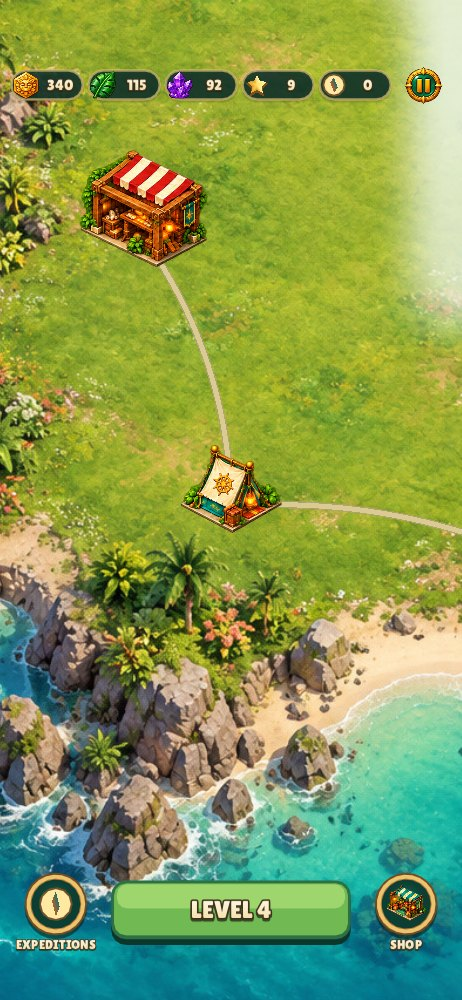
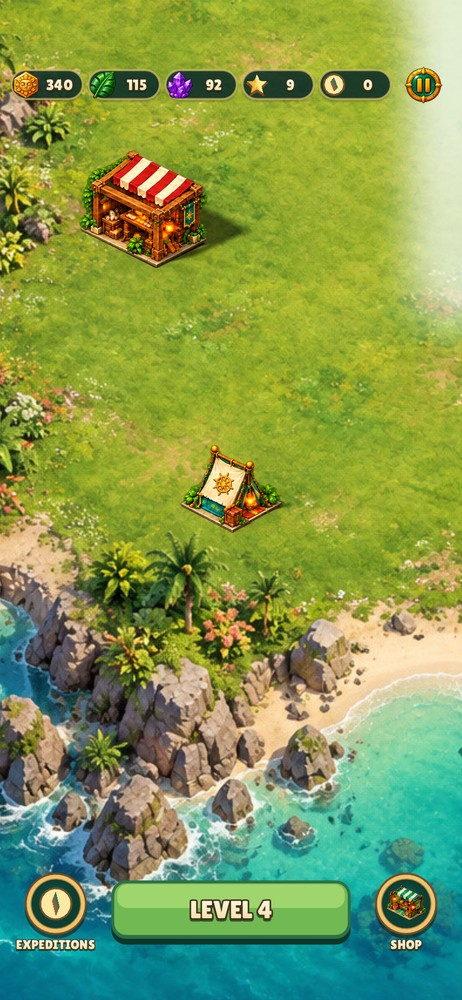
Disable automatic roads on the Nile and Relic Rush islands

diff --git a/games/relic-rush/README.md b/games/relic-rush/README.md
@@ -170,7 +170,7 @@ The 1920 × 2880 world scrolls beyond the phone screen. Hidden six-neighbor land
 | Ancient heights | 21 | 5 |
 | Temple ridge | 27 | 6 |
 
-A region must touch opened land, meet its Star requirement and have its Compass cost available. Select the clouded region and confirm expansion; only Compasses are deducted. This follows the June's Journey expansion principle. Regions do not open on a timer, and players do not need to build roads. Decorative paths adapt to the selected building positions.
+A region must touch opened land, meet its Star requirement and have its Compass cost available. Select the clouded region and confirm expansion; only Compasses are deducted. This follows the June's Journey expansion principle. Regions do not open on a timer, and players do not need to build roads. Buildings do not generate connecting roads.
 
 ## Play
 
@@ -186,7 +186,7 @@ A region must touch opened land, meet its Star requirement and have its Compass 
 - June's Journey-style expansion: adjacent clouded regions require cumulative Stars and spendable Compasses. First clears award 3 Stars and a scheduled Compass grant; replays award neither. Confirming a region consumes only Compasses; Stars remain. Region requirements and fog are separate from building placement.
 - The island's HUD follows the home screens of Royal Match, Homescapes and June's Journey, leaving the map uncovered. One row of slim pills shows Gold, Wood, Stone, Stars and Compasses beside the pause medallion; tap a pill to learn what it is for. At the bottom one big button plays the next level (or builds the restored wonder, named above it), flanked by round **Expeditions** and **Shop** buttons. Regions open from their markers in the fog; a marker that can open now shows "+" and glows. During expeditions the HUD is the slim Moves/Goals band and the tool tray. Island access returns after win/loss. See the [island HUD review](docs/review/island-hud/README.md).
 - Choose any valid grassy position within opened land. Hold a placed building still for half a second to pick it up, then drag and confirm or cancel. The building shows no label; it turns semitransparent red where it can't go. Completed buildings can be moved without spending resources. Preview and cancellation never change the saved layout.
-- Footprint collision and shoreline checks prevent overlap and water placement. Decorative paths are generated from the chosen positions; no road management is required.
+- Footprint collision and shoreline checks prevent overlap and water placement. Automatic connector roads are disabled.
 - Progress saves after rewards, construction and region unlocks (a `key=value` file in the per-game preferences folder, or `localStorage["relic-rush/progress"]` in the browser). An unfinished board restarts if the application is closed.
 
 ## Selected tile art

diff --git a/games/relic-rush/docs/references.md b/games/relic-rush/docs/references.md
@@ -4,7 +4,7 @@ Research date: 29 October 2026. Original sprites and environment paintings were 
 
 ## Island and building art direction
 
-Pearl's Peril and June's Journey are the primary references for the island and buildings, as requested. Favor a landscaped island with organic shoreline, gardens, trees, scenic paths and coherent building scale. Let individual buildings sit in their own surroundings with breathing room. Keep a calm, detailed painted environment; retain archaeological expedition architecture for our original setting. Candy Crush informs the puzzle board and feedback, not the island composition. Roads remain decorative, without connectivity requirements. The prototype now uses a large scrolling world, explicit neighboring-region unlocks, and freely placed movable buildings with green/red footprint validation.
+Pearl's Peril and June's Journey are the primary references for the island and buildings, as requested. Favor a landscaped island with organic shoreline, gardens, trees, scenic paths and coherent building scale. Let individual buildings sit in their own surroundings with breathing room. Keep a calm, detailed painted environment; retain archaeological expedition architecture for our original setting. Candy Crush informs the puzzle board and feedback, not the island composition. Automatic roads between buildings are disabled; landscape detail comes from the painted terrain. The prototype now uses a large scrolling world, explicit neighboring-region unlocks, and freely placed movable buildings with green/red footprint validation.
 
 ## Core loop
 - Wooga: June's Journey, Orchid Island construction, decoration, landmarks and scene progression: https://wooga.theymes.com/hc/en/junes-journey/articles/how-do-i-play-junes-journey-394

diff --git a/games/nile-archive/README.md b/games/nile-archive/README.md
@@ -10,6 +10,7 @@
 
 Интерфейс сделан по образцу iPad-версии June’s Journey, в цветах архива:
 
+- **Без автоматических дорог.** Постройки не соединяются процедурными линиями; дорожки на фоновой иллюстрации остаются частью пейзажа.
 - **Остров во весь экран.** Сверху слева — табличка Нефры: портрет в золотой рамке, звезда уровня и полоска влияния до следующего уровня. Сверху справа — капсулы монет и влияния с зелёным «+». Слева — круглые кнопки «Герои» и «Берег» с ценой.
 - **Снизу.** Кнопка «Строить» открывает лоток построек, табличка посередине показывает следующую цель, большая зелёная кнопка «Главы» открывает выбор глав. Красная точка на ней значит, что глава готова к поиску.
 - **Окна.** Тёмно-бирюзовые панели в золотой рамке с заклёпками, красная лента с заголовком, пергаментные карточки, глянцевые кнопки: зелёная — играть, синяя — играть снова, серая — недоступно.

diff --git a/games/nile-archive/docs/review/no-auto-roads/README.md b/games/nile-archive/docs/review/no-auto-roads/README.md
@@ -1,0 +1,19 @@
+# Automatic roads disabled
+
+Nile Archive explicitly disables generated building connectors, matching its previous default. Painted terrain paths remain part of the background.
+
+Before: main `3628324`. After: this branch. All captures use the native game renderer.
+
+| Logical size | Before | After |
+| --- | --- | --- |
+| 1200x900 | ![Before](before-1200x900.jpg) | ![After](after-1200x900.jpg) |
+| 1368x1026 | ![Before](before-1368x1026.jpg) | ![After](after-1368x1026.jpg) |
+| 1600x900 | ![Before](before-1600x900.jpg) | ![After](after-1600x900.jpg) |
+
+Reproduce each logical size with:
+
+```sh
+./build/nile-archive --headless --mute --fresh --size 1200x900 --screen island --shot /tmp/island.png
+```
+
+For the 390×844 Relic Rush capture, add `--safe-area 0,47,0,34`. Nile also covers 1368×1026 and 1600×900. PNG captures are converted to RGB JPEG at quality 90, fitted within 600×1100 (phone) or 1200×1000 (iPad).

diff --git a/games/relic-rush/docs/review/no-auto-roads/README.md b/games/relic-rush/docs/review/no-auto-roads/README.md
@@ -1,0 +1,18 @@
+# Automatic roads disabled
+
+Relic Rush no longer draws the engine’s generated building connectors.
+
+Before: main `3628324`. After: this branch. All captures use the native game renderer.
+
+| Logical size | Before | After |
+| --- | --- | --- |
+| 480x900 | ![Before](before-480x900.jpg) | ![After](after-480x900.jpg) |
+| 390x844 | ![Before](before-390x844.jpg) | ![After](after-390x844.jpg) |
+
+Reproduce each logical size with:
+
+```sh
+./build/relic-rush --headless --mute --fresh --size 480x900 --showcase --shot /tmp/island.png
+```
+
+For the 390×844 Relic Rush capture, add `--safe-area 0,47,0,34`. Nile also covers 1368×1026 and 1600×900. PNG captures are converted to RGB JPEG at quality 90, fitted within 600×1100 (phone) or 1200×1000 (iPad).

diff --git a/games/relic-rush/docs/asset-catalogue.md b/games/relic-rush/docs/asset-catalogue.md
@@ -360,3 +360,10 @@ inventory entry, an absent authored state, or a stale atlas crop fails CI. When
 changing existing definitions, audit their actual rule meaning as well as names.
 If any visual gap remains, open/link a GitHub issue here before handoff. No known
 placeholder board/control states remain from issue #11.
+
+## Island connector removal
+
+`lua/island.lua` disables the engine's procedural roads between buildings
+with a transparent `city.path`. Building sprites, shadows and terrain assets
+keep their existing registrations. Reviewed 480×900 and 390×844 captures are
+in [the road removal comparison](review/no-auto-roads/README.md).

diff --git a/games/nile-archive/docs/UI_CATALOGUE.md b/games/nile-archive/docs/UI_CATALOGUE.md
@@ -71,3 +71,10 @@ reviewed captures at 1200×900, 1368×1026 and 1600×900, button states and
 reproduction commands. Source: `setup_theme` in `lua/archive_kit.lua`; rendering:
 `engine/ui_forms.lua` and `engine/font.c`. This is authored text styling, with
 no ImageGen prompt or added runtime texture.
+
+## Island roads
+
+`archive_island.lua` explicitly disables automatic building connectors with
+a transparent `city.path` (matching the previous default). Paths painted into
+`data/island.png` remain part of the terrain. Reviewed iPad and 16:9 captures
+are in [the road removal comparison](review/no-auto-roads/README.md).
